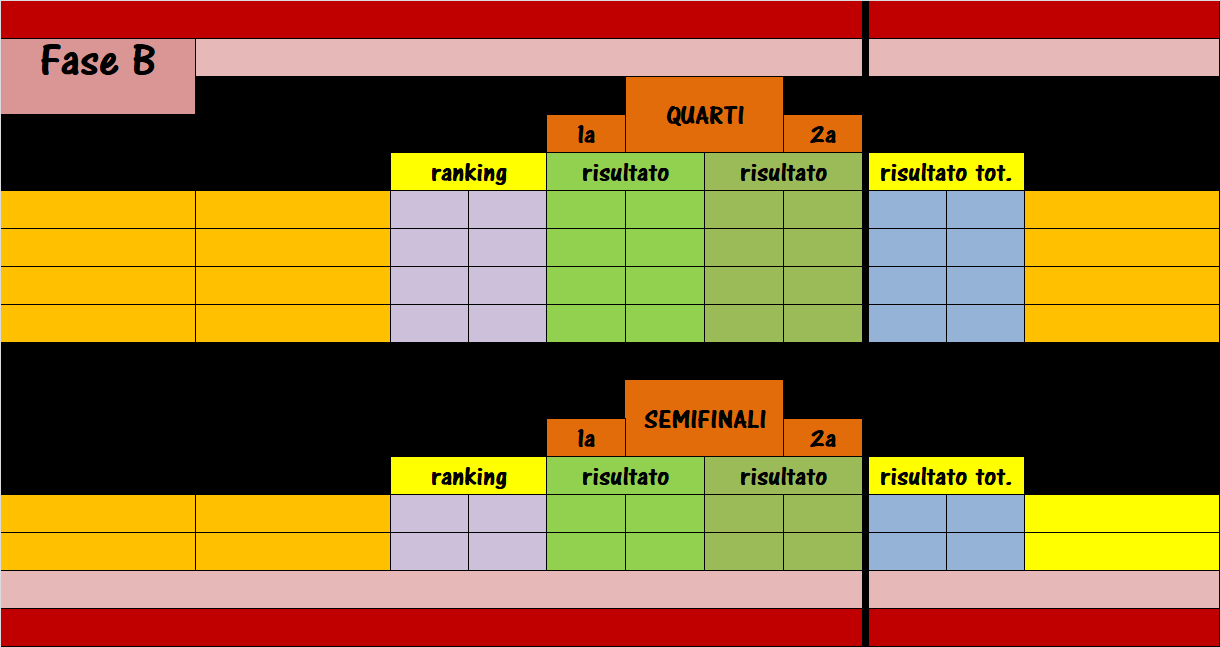
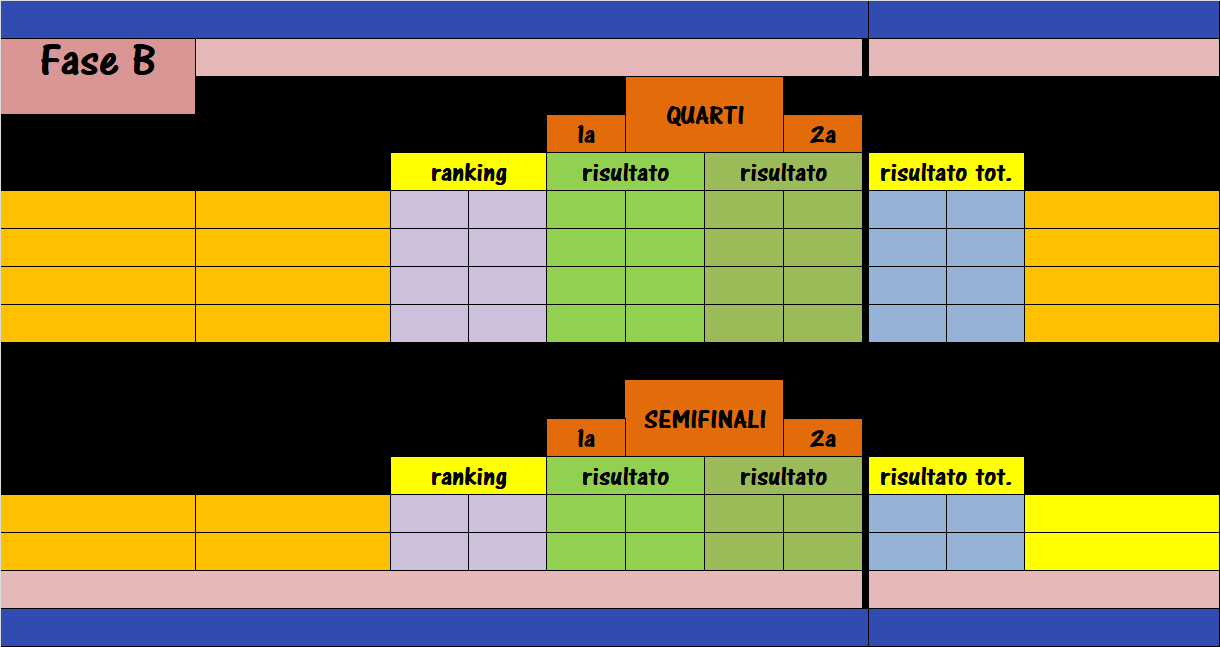
Centrate le scritte nei menu a tendina con text-align e text-align-last

Changed region(s): [[0.0, 0.9274, 1.0, 1.0], [0.0, 0.0, 1.0, 0.0618]]

diff --git a/visualizza_tabellini.html b/visualizza_tabellini.html
@@ -37,13 +37,13 @@
             
             <div class="frame">
                 <h2>⚽ RISULTATI ⚽</h2>
-                <img src="foto_tabellini/risultati_partite.png?v=1785738186" class="img-larga"><br>
-                <img src="foto_tabellini/foto_extra.png?v=1785738186" style="width:50%; border:1px solid #444; margin-top:20px;">
+                <img src="foto_tabellini/risultati_partite.png?v=1785740723" class="img-larga"><br>
+                <img src="foto_tabellini/foto_extra.png?v=1785740723" style="width:50%; border:1px solid #444; margin-top:20px;">
             </div>
             
             <div class="frame">
                 <h2>📊 CLASSIFICHE 📊</h2>
-                <img src="foto_tabellini/classifica_turno.png?v=1785738186" class="img-larga">
+                <img src="foto_tabellini/classifica_turno.png?v=1785740723" class="img-larga">
             </div>
             
             <h2>📝 TABELLINI 📝</h2>
@@ -65,23 +65,23 @@
             <!-- PRIMO RIQUADRO DELLE FASI SUCCESSIVE CON LA SCRITTA DENTRO -->
             <div class="frame" style="border-color: gold; margin-top: 30px;">
                 <h2 style="color: gold; margin-top: 10px; margin-bottom: 20px;">📊 RISULTATI e CLASSIFICHE 📊</h2>
-                <img src="foto_tabellini/coppa_fase1_parte2.png?v=1785738186" class="coppa-img">
+                <img src="foto_tabellini/coppa_fase1_parte2.png?v=1785740723" class="coppa-img">
                 <div class="colonna-destra distacco-img">
-                    <img src="foto_tabellini/coppa_fase1_parte1.png?v=1785738186" style="width:100%; border:2px solid gold;">
+                    <img src="foto_tabellini/coppa_fase1_parte1.png?v=1785740723" style="width:100%; border:2px solid gold;">
                     <img src="immagini_fisse/fase B.jpg" style="width:100%; border:2px solid gold; margin-top:15px;">
                 </div>
             </div>
             
             <div class="frame" style="border-color: gold;">
-                <img src="foto_tabellini/coppa_fase2_parte2.png?v=1785738186" class="coppa-img">
+                <img src="foto_tabellini/coppa_fase2_parte2.png?v=1785740723" class="coppa-img">
                 <div class="colonna-destra distacco-img">
-                    <img src="foto_tabellini/coppa_fase2_parte1.png?v=1785738186" style="width:100%; border:2px solid gold;">
+                    <img src="foto_tabellini/coppa_fase2_parte1.png?v=1785740723" style="width:100%; border:2px solid gold;">
                     <img src="immagini_fisse/fase B.jpg" style="width:100%; border:2px solid gold; margin-top:15px;">
                 </div>
             </div>
             
             <div class="frame" style="border-color: gold;">
-                <img src="foto_tabellini/coppa_fase3_parte1.png?v=1785738186" class="coppa-img">
+                <img src="foto_tabellini/coppa_fase3_parte1.png?v=1785740723" class="coppa-img">
                 <div class="colonna-destra distacco-img">
                     <img src="immagini_fisse/fase C.jpg" style="width:100%; border:2px solid gold;">
                 </div>
